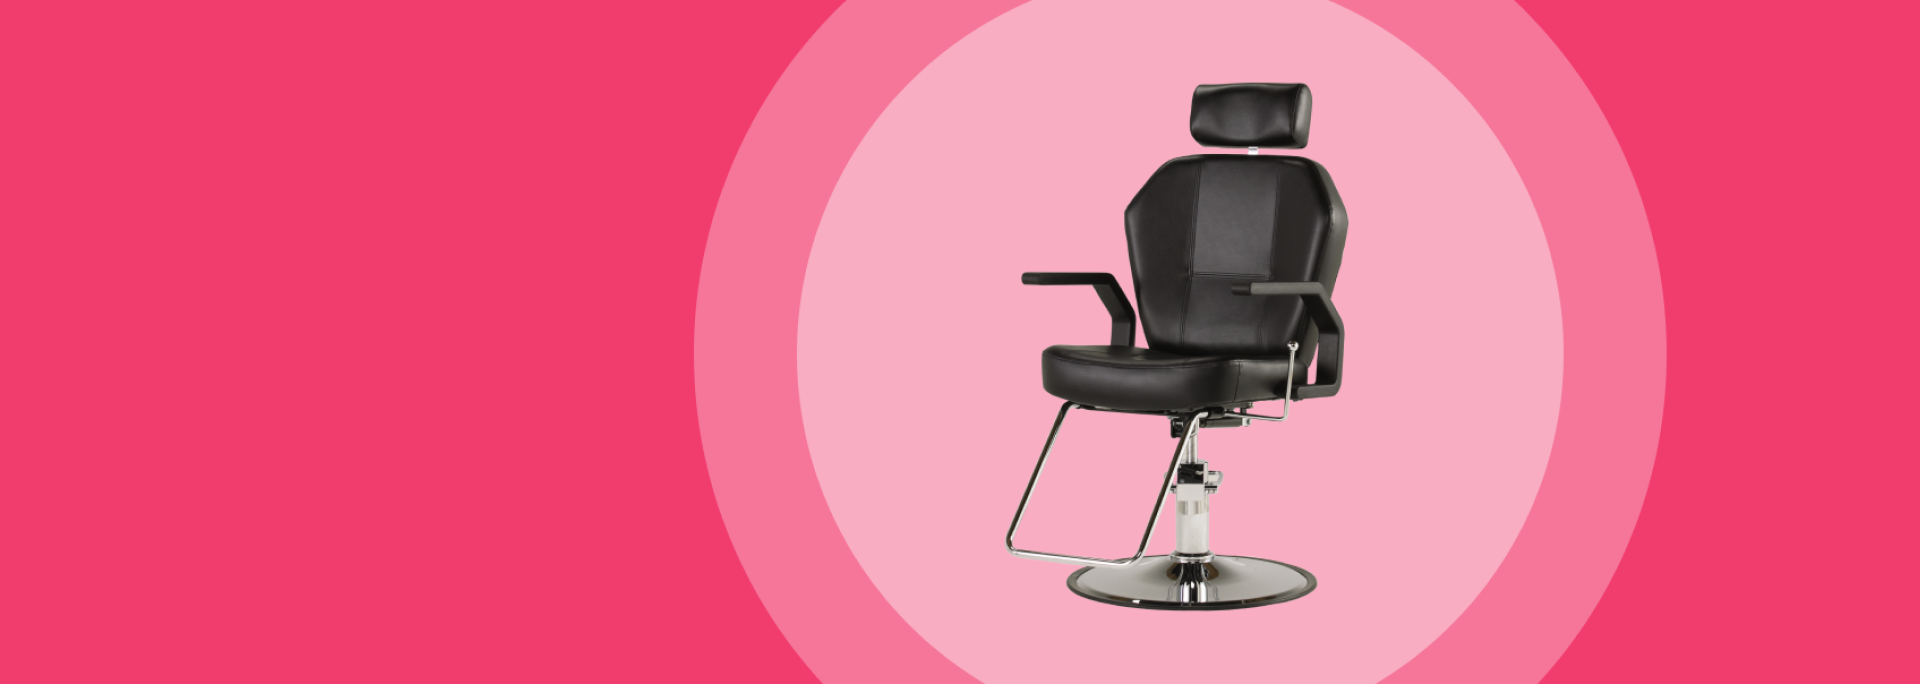
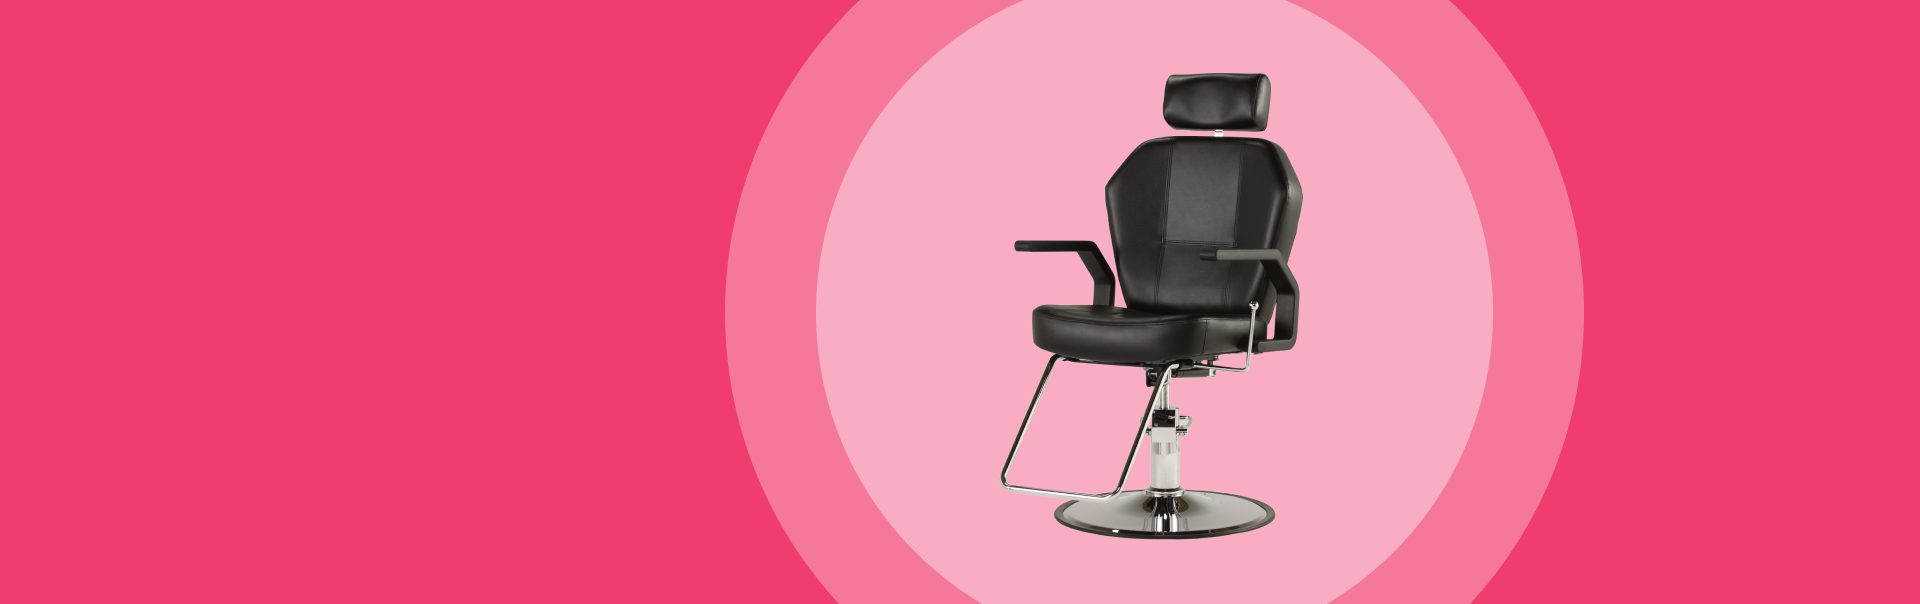
fix: correction

diff --git a/src/css/index.css b/src/css/index.css
@@ -19,6 +19,15 @@ a {
   a:hover {
     text-decoration: underline; }
 
+.wrapper {
+  width: 60%; }
+
+section,
+header,
+footer {
+  display: flex;
+  justify-content: center; }
+
 .section-title {
   font-weight: bold;
   font-size: 2.4rem;
@@ -85,7 +94,8 @@ a {
   justify-content: space-between;
   color: #FFFFFF;
   background: #F13C6E;
-  padding: 35px 40px; }
+  padding: 35px 40px;
+  width: 48%; }
   .info-block__main-block {
     display: flex;
     flex-direction: column;
@@ -216,9 +226,14 @@ a {
 
 .super-product {
   color: #FFFFFF;
-  background-image: url("../assets/super-product/background.png"); }
+  background-repeat: no-repeat;
+  background-image: url("../assets/super-product/background.png");
+  height: 600px;
+  display: flex;
+  align-items: center; }
   .super-product__wrapper {
     display: flex;
+    flex-direction: column;
     padding: 215px 0; }
   .super-product__main-info {
     display: flex;
@@ -242,6 +257,8 @@ a {
     border-color: #FFFFFF;
     color: #FFFFFF;
     max-width: 170px; }
+  .super-product__title, .super-product__subtitle {
+    margin-bottom: 55px; }
 
 .info-blocks {
   background: #E5E5E5; }
@@ -253,7 +270,7 @@ a {
     margin-right: 30px; }
 
 .sponsors {
-  background: #FFFFFF; }
+  background: #E5E5E5; }
   .sponsors__wrapper {
     display: flex;
     flex-wrap: wrap; }

diff --git a/index.html b/index.html
@@ -106,7 +106,7 @@
                     <input type="text" placeholder="Введите e-mail" class="info-block__input" >
                 </div>
                 <div class="info-block__image-block">
-                    <img src="./src/assets/info-blocks/envelope.png" alt="envelope" class="info-blocks__image">
+                    <img src="./src/assets/info-blocks/envelope.png" alt="envelope" class="info-block__image">
                 </div>
             </div>          
             <div class="info-blocks__item info-block">
@@ -123,7 +123,7 @@
                     </button>
                 </div>
                 <div class="info-block__image-block">
-                    <img src="./src/assets/info-blocks/delivery.png" alt="envelope" class="info-blocks__image">
+                    <img src="./src/assets/info-blocks/delivery.png" alt="envelope" class="info-block__image">
                 </div>
             </div>          
         </div>

diff --git a/src/scss/modules/_super-product.scss b/src/scss/modules/_super-product.scss
@@ -1,9 +1,18 @@
+$super-product-background-height: 600px;
+
 .super-product {
   color: $main-text-color;
+  background-repeat: no-repeat;
   background-image: url('../assets/super-product/background.png');
+
+  height: $super-product-background-height;
+  display: flex;
+  align-items: center;
 
 	&__wrapper {
     display: flex;
+    flex-direction: column;
+
     padding: 215px 0;
 	}
 
@@ -36,5 +45,10 @@
     border-color: $primary2;
     color: $main-text-color;
     max-width: 170px;
+  }
+
+  &__title,
+  &__subtitle {
+    margin-bottom: 55px;
   }
 }

diff --git a/src/scss/common/_info-block.scss b/src/scss/common/_info-block.scss
@@ -1,5 +1,6 @@
 $info-block-input-text-color: #C4C4C4;
 $info-block-input-height: 35px;
+$info-block-width: 48%;
 
 
 .info-block {
@@ -9,6 +10,8 @@ $info-block-input-height: 35px;
   color: $main-text-color;
   background: $primary1;
   padding: 35px 40px;
+
+  width: $info-block-width;
 
   &__main-block {
     display: flex;

diff --git a/src/scss/global/_global.scss b/src/scss/global/_global.scss
@@ -1,3 +1,5 @@
+$wrapper-width: 60%;
+
 html {
   font-size: 10px;
   line-height: 10px;
@@ -25,3 +27,13 @@ a {
   }
 }
 
+.wrapper {
+  width: $wrapper-width;
+}
+
+section,
+header,
+footer {
+  display: flex;
+  justify-content: center;
+}

diff --git a/src/scss/modules/_sponsors.scss b/src/scss/modules/_sponsors.scss
@@ -1,5 +1,5 @@
 .sponsors {
-  background: $primary2;
+  background: $primary3;
 
   &__wrapper {
     display: flex;
